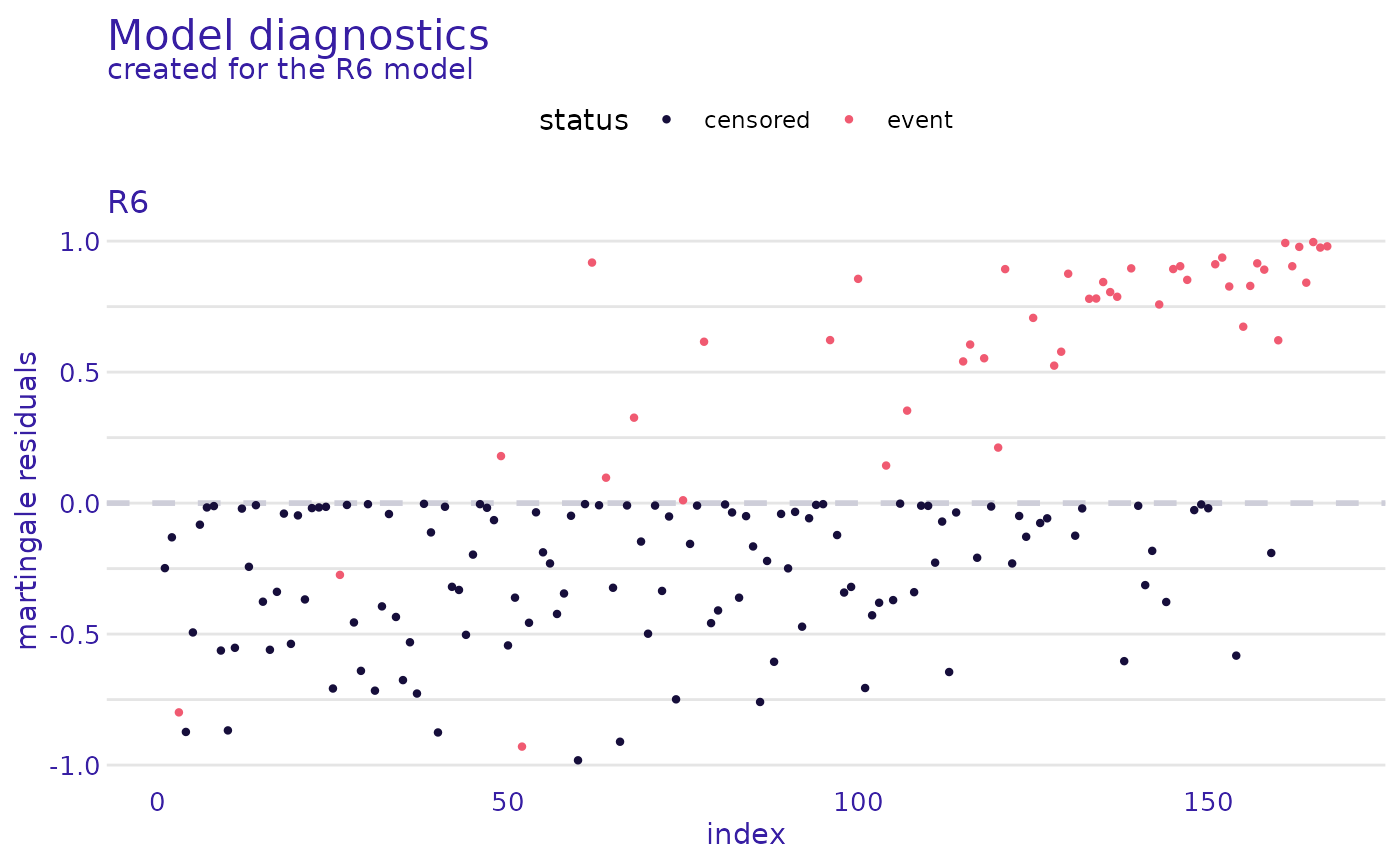
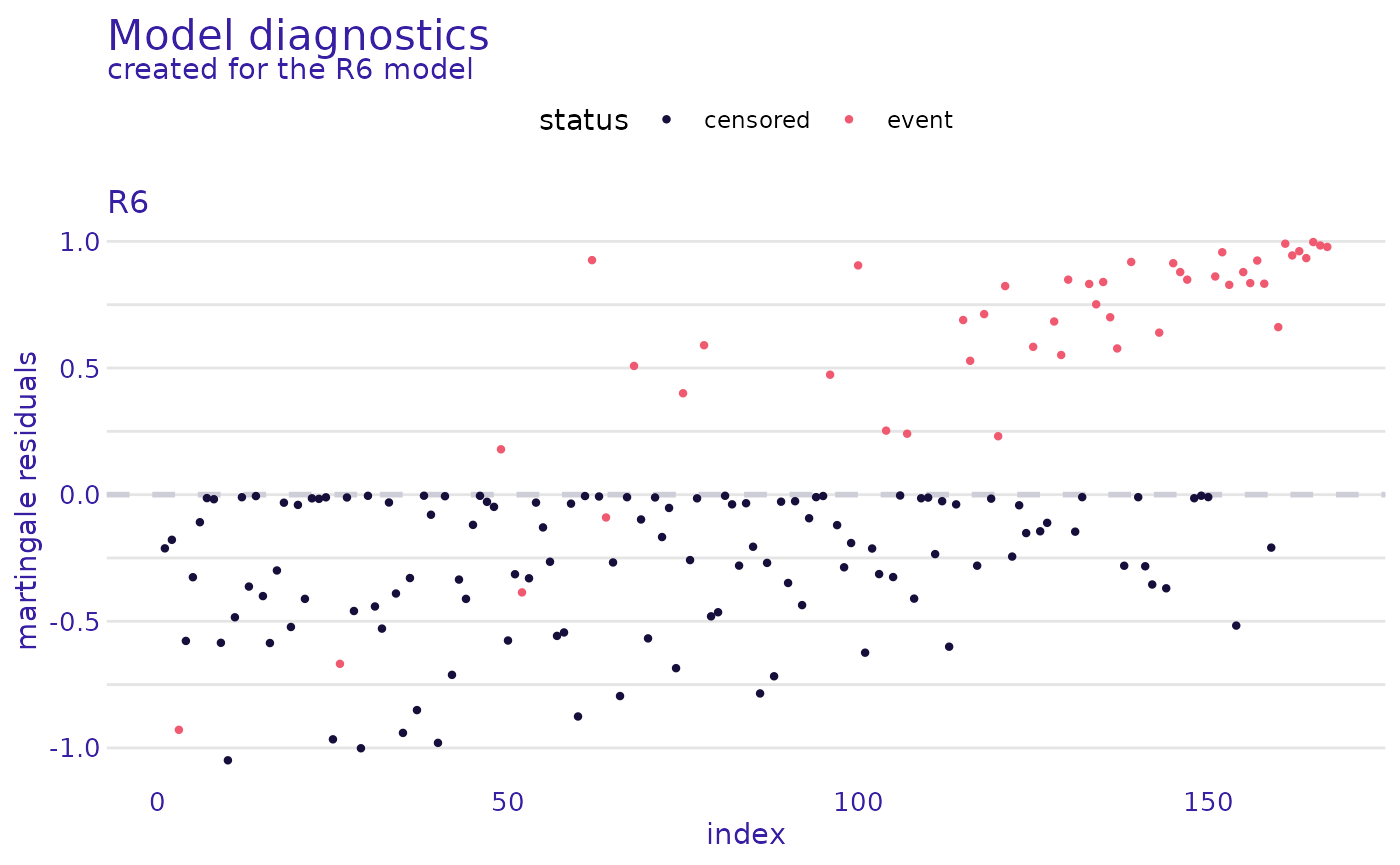
Deploying to gh-pages from @ orspanish/DeepSuRv@b0ecbab79415ab56d6103aaad98afdc326a3901a 🚀

diff --git a/index.html b/index.html
@@ -120,6 +120,55 @@
 <h2 id="how-to-produce-a-counterfactual-explanation-with-survex">How to Produce a Counterfactual Explanation with <code>survex</code>
 <a class="anchor" aria-label="anchor" href="#how-to-produce-a-counterfactual-explanation-with-survex"></a>
 </h2>
+<div class="section level3">
+<h3 id="integrating-deepsurv-with-survex-explainer-object">Integrating DeepSuRv with Survex Explainer Object<a class="anchor" aria-label="anchor" href="#integrating-deepsurv-with-survex-explainer-object"></a>
+</h3>
+<p>Below provides a brief tutorial of the DeepSuRv - Survex integration process using the veteran data from the Survival package. Please refer <a href="https://orspanish.github.io/DeepSuRv/articles/deepsurv_survex.html">here</a> for more information.</p>
+<p>Begin by preprocessing the data, converting the outputs to torch tensors (necessary to train the DeepSuRv model), and ordering by descending time.</p>
+<div class="sourceCode" id="cb2"><pre class="downlit sourceCode r">
+<code class="sourceCode R"><span><span class="co"># Preprocess data</span></span>
+<span><span class="va">veteran_prep</span> <span class="op">&lt;-</span> <span class="fu"><a href="reference/prep_data.html">prep_data</a></span><span class="op">(</span><span class="va">veteran</span>, <span class="st">'time'</span>, <span class="st">'status'</span><span class="op">)</span></span>
+<span><span class="va">X</span> <span class="op">&lt;-</span> <span class="va">veteran_prep</span><span class="op">$</span><span class="va">X_mat</span></span>
+<span><span class="va">dat</span> <span class="op">&lt;-</span> <span class="va">veteran_prep</span><span class="op">$</span><span class="va">dat</span></span>
+<span></span>
+<span><span class="co"># Convert to torch tensors</span></span>
+<span><span class="va">train_data</span> <span class="op">&lt;-</span> <span class="fu"><a href="https://rdrr.io/r/base/list.html" class="external-link">list</a></span><span class="op">(</span></span>
+<span>  x <span class="op">=</span> <span class="fu">torch_tensor</span><span class="op">(</span><span class="fu"><a href="https://rdrr.io/r/base/matrix.html" class="external-link">as.matrix</a></span><span class="op">(</span><span class="va">X</span><span class="op">)</span>, dtype <span class="op">=</span> <span class="fu">torch_float</span><span class="op">(</span><span class="op">)</span><span class="op">)</span>,</span>
+<span>  time <span class="op">=</span> <span class="fu">torch_tensor</span><span class="op">(</span><span class="va">dat</span><span class="op">$</span><span class="va">time</span>, dtype <span class="op">=</span> <span class="fu">torch_float</span><span class="op">(</span><span class="op">)</span><span class="op">)</span>,</span>
+<span>  event <span class="op">=</span> <span class="fu">torch_tensor</span><span class="op">(</span><span class="va">dat</span><span class="op">$</span><span class="va">status</span>, dtype <span class="op">=</span> <span class="fu">torch_float</span><span class="op">(</span><span class="op">)</span><span class="op">)</span></span>
+<span><span class="op">)</span></span>
+<span></span>
+<span><span class="co"># Order by descending time</span></span>
+<span><span class="va">order_idx</span> <span class="op">&lt;-</span> <span class="fu"><a href="https://rdrr.io/r/base/order.html" class="external-link">order</a></span><span class="op">(</span><span class="fu"><a href="https://rdrr.io/r/base/numeric.html" class="external-link">as.numeric</a></span><span class="op">(</span><span class="va">train_data</span><span class="op">$</span><span class="va">time</span><span class="op">)</span>, decreasing <span class="op">=</span> <span class="cn">TRUE</span><span class="op">)</span></span>
+<span><span class="va">train_data</span><span class="op">$</span><span class="va">x</span> <span class="op">&lt;-</span> <span class="va">train_data</span><span class="op">$</span><span class="va">x</span><span class="op">[</span><span class="va">order_idx</span>, <span class="op">]</span></span>
+<span><span class="va">train_data</span><span class="op">$</span><span class="va">time</span> <span class="op">&lt;-</span> <span class="va">train_data</span><span class="op">$</span><span class="va">time</span><span class="op">[</span><span class="va">order_idx</span><span class="op">]</span></span>
+<span><span class="va">train_data</span><span class="op">$</span><span class="va">event</span> <span class="op">&lt;-</span> <span class="va">train_data</span><span class="op">$</span><span class="va">event</span><span class="op">[</span><span class="va">order_idx</span><span class="op">]</span></span></code></pre></div>
+<p>Initialize and standardize the model. This uses a basic model with standardization, which is not necessary but improves convergence efficiency.</p>
+<div class="sourceCode" id="cb3"><pre class="downlit sourceCode r">
+<code class="sourceCode R"><span><span class="co"># Initialize model</span></span>
+<span><span class="va">model</span> <span class="op">&lt;-</span> <span class="va"><a href="reference/DeepSuRv.html">DeepSuRv</a></span><span class="op">$</span><span class="fu">new</span><span class="op">(</span></span>
+<span>  n_in <span class="op">=</span> <span class="fu"><a href="https://rdrr.io/r/base/nrow.html" class="external-link">ncol</a></span><span class="op">(</span><span class="va">X</span><span class="op">)</span>,</span>
+<span>  hidden_layers <span class="op">=</span> <span class="fu"><a href="https://rdrr.io/r/base/c.html" class="external-link">c</a></span><span class="op">(</span><span class="fl">16</span><span class="op">)</span>,</span>
+<span>  dropout <span class="op">=</span> <span class="fl">0</span>,</span>
+<span>  learning_rate <span class="op">=</span> <span class="fl">0.01</span></span>
+<span><span class="op">)</span></span>
+<span></span>
+<span><span class="co"># Standardize inputs</span></span>
+<span><span class="va">model</span><span class="op">$</span><span class="fu">set_standardization</span><span class="op">(</span><span class="va">X</span><span class="op">)</span></span></code></pre></div>
+<p>Train the model using the prepared tensors (above).</p>
+<div class="sourceCode" id="cb4"><pre class="downlit sourceCode r">
+<code class="sourceCode R"><span><span class="co"># Train</span></span>
+<span><span class="va">model</span><span class="op">$</span><span class="fu">train</span><span class="op">(</span></span>
+<span>  X_train <span class="op">=</span> <span class="va">train_data</span><span class="op">$</span><span class="va">x</span>,</span>
+<span>  t_train <span class="op">=</span> <span class="va">train_data</span><span class="op">$</span><span class="va">time</span>,</span>
+<span>  e_train <span class="op">=</span> <span class="va">train_data</span><span class="op">$</span><span class="va">event</span></span>
+<span><span class="op">)</span></span></code></pre></div>
+<p>Create a Survex explainer object from the trained model, and use the resulting object in any Survex function.</p>
+<div class="sourceCode" id="cb5"><pre class="downlit sourceCode r">
+<code class="sourceCode R"><span><span class="co"># Create Survex explainer</span></span>
+<span><span class="va">explainer</span> <span class="op">&lt;-</span> <span class="fu"><a href="reference/make_deepsurv_explainer.html">make_deepsurv_explainer</a></span><span class="op">(</span><span class="va">model</span>, <span class="va">dat</span>, <span class="st">'time'</span>, <span class="st">'status'</span><span class="op">)</span></span>
+<span><span class="fu"><a href="https://rdrr.io/r/graphics/plot.default.html" class="external-link">plot</a></span><span class="op">(</span><span class="fu">model_parts</span><span class="op">(</span><span class="va">explainer</span><span class="op">)</span><span class="op">)</span></span></code></pre></div>
+</div>
 </div>
 <div class="section level2">
 <h2 id="references">References<a class="anchor" aria-label="anchor" href="#references"></a>

diff --git a/articles/deepsurv_survex.html b/articles/deepsurv_survex.html
@@ -160,11 +160,11 @@ DEEPSURV CLASS TUTORIAL ARTICLE</strong>.</p>
 <span>  t_train <span class="op">=</span> <span class="va">train_data</span><span class="op">$</span><span class="va">time</span>,</span>
 <span>  e_train <span class="op">=</span> <span class="va">train_data</span><span class="op">$</span><span class="va">event</span></span>
 <span><span class="op">)</span></span>
-<span><span class="co">#&gt; Epoch: 10 Loss: 191.5786 </span></span>
-<span><span class="co">#&gt; Epoch: 20 Loss: 188.6638 </span></span>
-<span><span class="co">#&gt; Epoch: 30 Loss: 185.7837 </span></span>
-<span><span class="co">#&gt; Epoch: 40 Loss: 182.8854 </span></span>
-<span><span class="co">#&gt; Epoch: 50 Loss: 180.3779</span></span></code></pre></div>
+<span><span class="co">#&gt; Epoch: 10 Loss: 192.5649 </span></span>
+<span><span class="co">#&gt; Epoch: 20 Loss: 190.0925 </span></span>
+<span><span class="co">#&gt; Epoch: 30 Loss: 187.8481 </span></span>
+<span><span class="co">#&gt; Epoch: 40 Loss: 185.5323 </span></span>
+<span><span class="co">#&gt; Epoch: 50 Loss: 183.2098</span></span></code></pre></div>
 </div>
 <div class="section level3">
 <h3 id="make-predictions">Make Predictions<a class="anchor" aria-label="anchor" href="#make-predictions"></a>
@@ -176,7 +176,8 @@ sooner.</p>
 <div class="sourceCode" id="cb5"><pre class="downlit sourceCode r">
 <code class="sourceCode R"><span><span class="va">risk_scores</span> <span class="op">&lt;-</span> <span class="va">model</span><span class="op">$</span><span class="fu">predict_risk</span><span class="op">(</span><span class="va">X</span><span class="op">)</span></span>
 <span><span class="fu"><a href="https://rdrr.io/r/utils/head.html" class="external-link">head</a></span><span class="op">(</span><span class="va">risk_scores</span><span class="op">)</span></span>
-<span><span class="co">#&gt; [1] -0.5356189  0.7908125 -1.9209992  1.2045156  0.5373293  0.2379999</span></span></code></pre></div>
+<span><span class="co">#&gt; [1] -0.793719232  0.922863185 -1.618962288  0.656104028 -0.006884575</span></span>
+<span><span class="co">#&gt; [6]  0.337926924</span></span></code></pre></div>
 </div>
 </div>
 <div class="section level2">

diff --git a/index.md b/index.md
@@ -91,6 +91,74 @@ devtools::install_github("orspanish/DeepSuRv")
 
 ## How to Produce a Counterfactual Explanation with `survex`
 
+### Integrating DeepSuRv with Survex Explainer Object
+
+Below provides a brief tutorial of the DeepSuRv - Survex integration
+process using the veteran data from the Survival package. Please refer
+[here](https://orspanish.github.io/DeepSuRv/articles/deepsurv_survex.html)
+for more information.
+
+Begin by preprocessing the data, converting the outputs to torch tensors
+(necessary to train the DeepSuRv model), and ordering by descending
+time.
+
+``` r
+# Preprocess data
+veteran_prep <- prep_data(veteran, 'time', 'status')
+X <- veteran_prep$X_mat
+dat <- veteran_prep$dat
+
+# Convert to torch tensors
+train_data <- list(
+  x = torch_tensor(as.matrix(X), dtype = torch_float()),
+  time = torch_tensor(dat$time, dtype = torch_float()),
+  event = torch_tensor(dat$status, dtype = torch_float())
+)
+
+# Order by descending time
+order_idx <- order(as.numeric(train_data$time), decreasing = TRUE)
+train_data$x <- train_data$x[order_idx, ]
+train_data$time <- train_data$time[order_idx]
+train_data$event <- train_data$event[order_idx]
+```
+
+Initialize and standardize the model. This uses a basic model with
+standardization, which is not necessary but improves convergence
+efficiency.
+
+``` r
+# Initialize model
+model <- DeepSuRv$new(
+  n_in = ncol(X),
+  hidden_layers = c(16),
+  dropout = 0,
+  learning_rate = 0.01
+)
+
+# Standardize inputs
+model$set_standardization(X)
+```
+
+Train the model using the prepared tensors (above).
+
+``` r
+# Train
+model$train(
+  X_train = train_data$x,
+  t_train = train_data$time,
+  e_train = train_data$event
+)
+```
+
+Create a Survex explainer object from the trained model, and use the
+resulting object in any Survex function.
+
+``` r
+# Create Survex explainer
+explainer <- make_deepsurv_explainer(model, dat, 'time', 'status')
+plot(model_parts(explainer))
+```
+
 ## References
 
 Katzman, J. L., Shaham, U., Cloninger, A., Bates, J., Jiang, T., &

diff --git a/articles/deepsurv_survex.md b/articles/deepsurv_survex.md
@@ -90,11 +90,11 @@ model$train(
   t_train = train_data$time,
   e_train = train_data$event
 )
-#> Epoch: 10 Loss: 191.5786 
-#> Epoch: 20 Loss: 188.6638 
-#> Epoch: 30 Loss: 185.7837 
-#> Epoch: 40 Loss: 182.8854 
-#> Epoch: 50 Loss: 180.3779
+#> Epoch: 10 Loss: 192.5649 
+#> Epoch: 20 Loss: 190.0925 
+#> Epoch: 30 Loss: 187.8481 
+#> Epoch: 40 Loss: 185.5323 
+#> Epoch: 50 Loss: 183.2098
 ```
 
 ### Make Predictions
@@ -106,7 +106,8 @@ a higher risk of the event of interest occurring sooner.
 ``` r
 risk_scores <- model$predict_risk(X)
 head(risk_scores)
-#> [1] -0.5356189  0.7908125 -1.9209992  1.2045156  0.5373293  0.2379999
+#> [1] -0.793719232  0.922863185 -1.618962288  0.656104028 -0.006884575
+#> [6]  0.337926924
 ```
 
 ## Creating an Explainer
